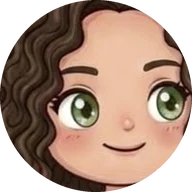
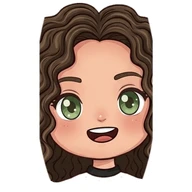
Gastos compartidos: nuevas caras de Juli y Ale, centradas en el círculo
Claude-Session: https://claude.ai/code/session_01LMZK851QBDu7shv4jjJpii

diff --git a/compartidos.html b/compartidos.html
@@ -205,7 +205,7 @@ const NOM=(()=>{const n=(rd('ahorros_v1',{})||{}).names||{};return {j:n.j||'Juli
    Cada mes hasta el que viene (por ejemplo, en enero se ve febrero pero no marzo) se crea solo el gasto de la serie con id "serie_AAAA-MM", copiando descripción y monto del mes anterior
    y sin quién lo pagó; así si los dos celus lo crean a la vez, es el mismo y no se duplica. */
 let G=rd(LS,{})||{},S=rd(LS+'_s',{})||{};
-const FOTO={j:'img/avatar-juli.webp',a:'img/avatar-ale.webp'};
+const FOTO={j:'img/avatar-juli.webp?v=2',a:'img/avatar-ale.webp?v=2'};
 const mesDe=f=>f.slice(0,7);
 const mesActual=()=>hoyISO().slice(0,7);
 /* el mes que viene (AAAA-MM): los fijos se precargan hasta ahí nomás, para no llenar la base de meses lejanos */
